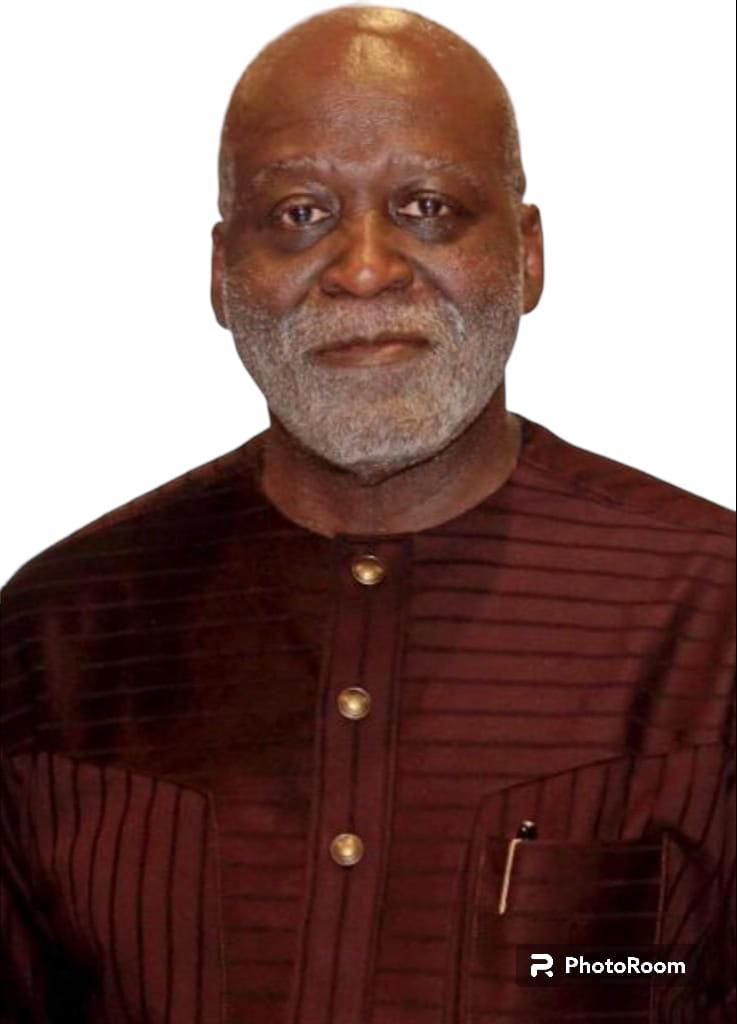
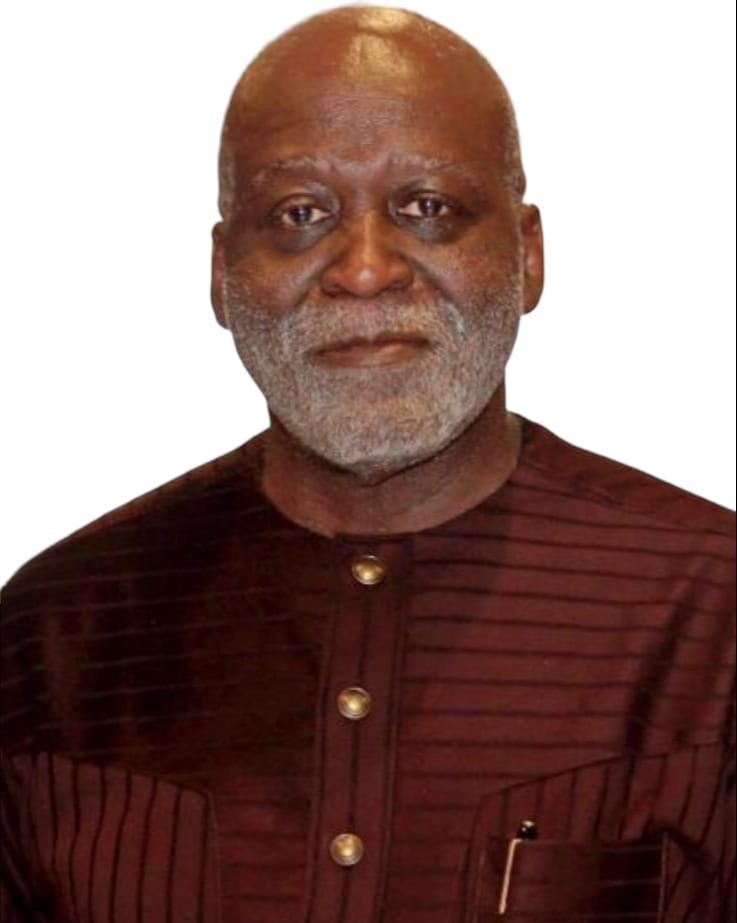
picture resizing && our service

diff --git a/our-services.html b/our-services.html
@@ -146,25 +146,7 @@ https://templatemo.com/tm-574-mexant
     </div>
   </section>
 
-  <section class="simple-cta">
-    <div class="container">
-      <div class="row">
-        <div class="col-lg-5">
-          <h4>Business <em>Solutions</em> and <strong>Crypto</strong> Investments</h4>
-        </div>
-        <div class="col-lg-7">
-          <div class="buttons">
-            <div class="green-button">
-              <a href="#">Discover More</a>
-            </div>
-            <div class="orange-button">
-              <a href="#">Contact Us</a>
-            </div>
-          </div>
-        </div>
-      </div>
-    </div>
-  </section>
+
 
   <section class="service-details">
     <div class="container">
